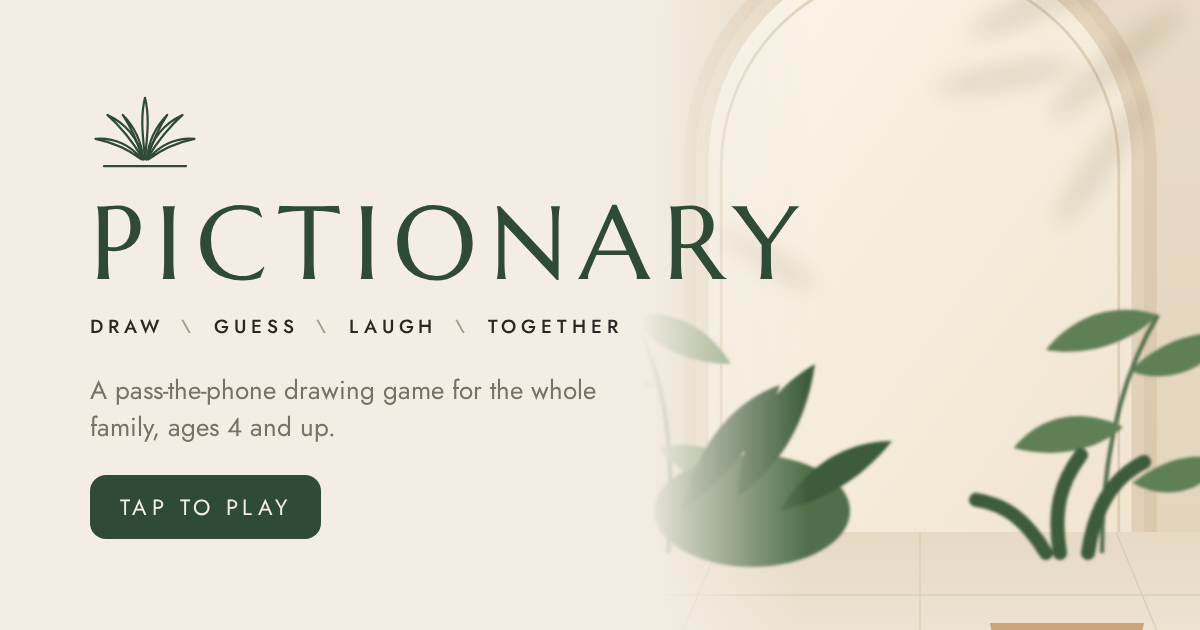
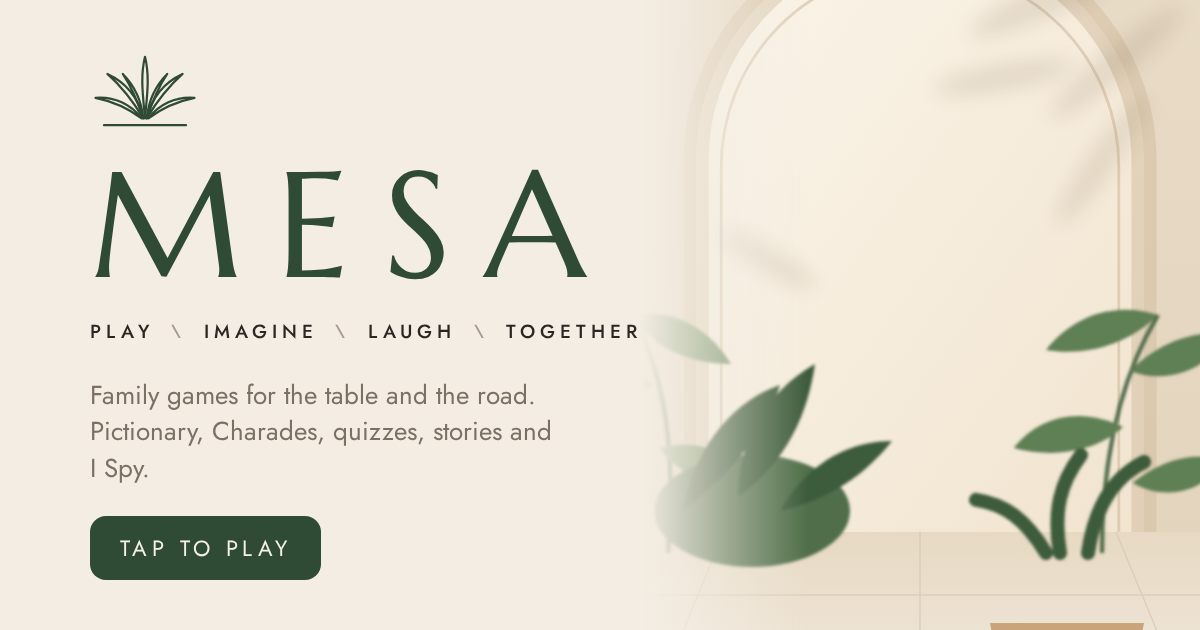
Rename the app to Mesa
Now that it is a hub of family games, the app is Mesa (table, short for
sobremesa, the time a family lingers after a meal). The home logo, page
title, home-screen name, manifest, share card and Open Graph tags all say
Mesa; Pictionary stays as the name of the drawing game inside it. The
tagline is now Play / Imagine / Laugh / Together on both domains.

Claude-Session: https://claude.ai/code/session_01TJpxQ79vJLqe7a7EjP1m4S

diff --git a/pictionary/index.html b/pictionary/index.html
@@ -3,35 +3,35 @@
 <head>
   <meta charset="utf-8" />
   <meta name="viewport" content="width=device-width, initial-scale=1, maximum-scale=1, user-scalable=no, viewport-fit=cover" />
-  <title>Pictionary · Draw, Guess, Laugh, Together</title>
-  <meta name="description" content="A pass-the-phone drawing game for the whole family. Pick a deck, draw with your finger, and guess before the timer runs out. Free, no sign-up, works offline." />
+  <title>Mesa · Family games for the table and the road</title>
+  <meta name="description" content="Mesa: family games for dinner, road trips and flights. Pictionary, Charades, Quiz Quest, Story Spinner and I Spy Bingo. Read aloud so the phone can stay face down. Free, no sign-up, works offline." />
   <meta name="robots" content="noindex" />
   <link rel="canonical" href="https://pictionary.kevinzoss.com/" />
-  <meta property="og:site_name" content="Pictionary" />
+  <meta property="og:site_name" content="Mesa" />
   <meta property="og:type" content="website" />
   <meta property="og:url" content="https://pictionary.kevinzoss.com/" />
-  <meta property="og:title" content="Pictionary · Draw, Guess, Laugh, Together" />
-  <meta property="og:description" content="A pass-the-phone drawing game for the whole family, ages 4 and up. Free, no sign-up, works offline." />
+  <meta property="og:title" content="Mesa · Family games for the table and the road" />
+  <meta property="og:description" content="Pictionary, Charades, Quiz Quest, Story Spinner and I Spy Bingo for kids 4 to 10 and their grown-ups. Read aloud, so the phone can stay face down." />
   <!-- Served from the always-on Vercel host so previews work whatever DNS is doing. -->
-  <meta property="og:image" content="https://pictionary-phi.vercel.app/share.png" />
+  <meta property="og:image" content="https://pictionary-phi.vercel.app/share.png?v=3" />
   <meta property="og:image:width" content="1200" />
   <meta property="og:image:height" content="630" />
-  <meta property="og:image:alt" content="Pictionary, in green serif capitals, with an agave mark and a plaster arch with plants." />
+  <meta property="og:image:alt" content="Mesa, in green serif capitals, with an agave mark and a plaster arch with plants." />
   <meta name="twitter:card" content="summary_large_image" />
-  <meta name="twitter:title" content="Pictionary · Draw, Guess, Laugh, Together" />
-  <meta name="twitter:description" content="A pass-the-phone drawing game for the whole family, ages 4 and up." />
-  <meta name="twitter:image" content="https://pictionary-phi.vercel.app/share.png" />
+  <meta name="twitter:title" content="Mesa · Family games for the table and the road" />
+  <meta name="twitter:description" content="Pictionary, Charades, Quiz Quest, Story Spinner and I Spy Bingo for the whole family." />
+  <meta name="twitter:image" content="https://pictionary-phi.vercel.app/share.png?v=3" />
 
   <meta name="theme-color" content="#F3EDE3" />
   <meta name="apple-mobile-web-app-capable" content="yes" />
   <meta name="mobile-web-app-capable" content="yes" />
   <meta name="apple-mobile-web-app-status-bar-style" content="default" />
-  <meta name="apple-mobile-web-app-title" content="Pictionary" />
+  <meta name="apple-mobile-web-app-title" content="Mesa" />
   <link rel="manifest" href="./manifest.webmanifest" />
   <link rel="icon" href="./icon.svg" type="image/svg+xml" />
   <link rel="apple-touch-icon" href="./apple-touch-icon.png" />
   <link rel="preload" href="./fonts/marcellus.woff2" as="font" type="font/woff2" crossorigin />
-  <link rel="stylesheet" href="./css/app.css?v=8" />
+  <link rel="stylesheet" href="./css/app.css?v=10" />
 </head>
 <body>
   <!-- Line icons, used as <svg class="ic"><use href="#i-name"/></svg> -->
@@ -119,8 +119,8 @@
       <div class="home-inner">
         <div class="brand">
           <svg class="agave" viewBox="0 0 64 48" aria-hidden="true"><use href="#i-agave"/></svg>
-          <h1 class="logo">Pictionary</h1>
-          <p class="tagline">Draw <i>\</i> Guess <i>\</i> Laugh <i>\</i> Together</p>
+          <h1 class="logo">Mesa</h1>
+          <p class="tagline">Play <i>\</i> Imagine <i>\</i> Laugh <i>\</i> Together</p>
         </div>
         <div class="home-actions">
           <button class="menu-btn gold" data-act="resume" id="resumeBtn" hidden><svg class="ic"><use href="#i-resume"/></svg><span><b>Continue</b><small>Pick up where you left off</small></span></button>
@@ -551,7 +551,7 @@
   <script src="./js/words.js?v=8"></script>
   <script src="./js/characters.js?v=8"></script>
   <script src="./js/draw.js?v=8"></script>
-  <script src="./js/app.js?v=8"></script>
+  <script src="./js/app.js?v=9"></script>
   <script src="./js/games.js?v=8"></script>
 </body>
 </html>

diff --git a/pictionary/css/app.css b/pictionary/css/app.css
@@ -118,8 +118,8 @@ h2 { margin: 0 0 10px; font-family: var(--serif); font-weight: 400; font-size: 1
 }
 .brand { text-align: center; display: flex; flex-direction: column; align-items: center; gap: 6px; }
 .agave { width: 64px; height: 48px; fill: none; stroke: var(--green); stroke-width: 1.4; stroke-linejoin: round; stroke-linecap: round; }
-.logo { font-family: var(--serif); font-size: clamp(42px, 13vw, 64px); font-weight: 400; letter-spacing: .12em; text-transform: uppercase; color: var(--green); line-height: 1; margin-right: -.12em; }
-.tagline { margin: 6px 0 0; color: var(--text); font-size: 12px; font-weight: 500; letter-spacing: .28em; text-transform: uppercase; }
+.logo { font-family: var(--serif); font-size: clamp(56px, 18vw, 84px); font-weight: 400; letter-spacing: .24em; text-transform: uppercase; color: var(--green); line-height: 1; margin-right: -.24em; }
+.tagline { margin: 6px 0 0; color: var(--text); font-size: clamp(10px, 3vw, 12px); white-space: nowrap; font-weight: 500; letter-spacing: .2em; text-transform: uppercase; }
 .tagline i { font-style: normal; color: var(--dim); padding: 0 .3em; }
 .home-actions { display: flex; flex-direction: column; gap: 12px; }
 .menu-btn {

diff --git a/pictionary/sw.js b/pictionary/sw.js
@@ -1,8 +1,8 @@
 // Offline play (car trips, planes): cache the app shell on install, then serve
 // cache-first and refresh in the background. Bump VERSION when files change.
-const VERSION = 'pict-v8';
-const SHELL = ['./', './index.html', './css/app.css?v=8', './js/extras.js?v=8', './js/words.js?v=8', './js/characters.js?v=8',
-  './js/draw.js?v=8', './js/app.js?v=8', './js/games.js?v=8', './manifest.webmanifest', './icon.svg', './icon-192.png', './apple-touch-icon.png',
+const VERSION = 'pict-v10';
+const SHELL = ['./', './index.html', './css/app.css?v=10', './js/extras.js?v=8', './js/words.js?v=8', './js/characters.js?v=8',
+  './js/draw.js?v=8', './js/app.js?v=9', './js/games.js?v=8', './manifest.webmanifest', './icon.svg', './icon-192.png', './apple-touch-icon.png',
   './fonts/marcellus.woff2', './fonts/jost-300.woff2', './fonts/jost-400.woff2', './fonts/jost-500.woff2', './fonts/jost-600.woff2'];
 
 self.addEventListener('install', (e) => {

diff --git a/pictionary/js/app.js b/pictionary/js/app.js
@@ -1186,12 +1186,6 @@
   }
   window.App = { $, esc, pick, wait, store, show, speak, Sound, toast, ask, confetti, buzz, avatarHTML, keepAwake, actions, refreshSound,
     settings: () => S, playerName, ANIMALS, current: () => current };
-  // games.kevinzoss.com is the same app with the hub's name on the door.
-  if (/^games\./.test(location.hostname)) {
-    document.querySelector('#home .logo').textContent = 'Games';
-    document.querySelector('#home .tagline').innerHTML = 'Play <i>\\</i> Imagine <i>\\</i> Laugh <i>\\</i> Together';
-    document.title = 'Family Games \u00b7 Play, Imagine, Laugh, Together';
-  }
   refreshHome();
   show('home');
   if ('speechSynthesis' in window) speechSynthesis.getVoices();

diff --git a/pictionary/README.md b/pictionary/README.md
@@ -1,4 +1,11 @@
-# Family Pictionary
+# Mesa (family games)
+
+Mesa means table, short for sobremesa: the time a family lingers at the
+table after a meal. The app
+started as Pictionary and is now a hub of screen-light family games:
+Pictionary, Napkin Pictionary, Charades, Quiz Quest, Story Spinner and I Spy
+Bingo. It is served at games.kevinzoss.com and pictionary.kevinzoss.com
+(Vercel project `pictionary`, this folder).
 
 Pass-the-phone Pictionary for kids 4 to 10 (and the grown-ups playing with
 them). The phone is the board: put it on the table, the artist draws with a
